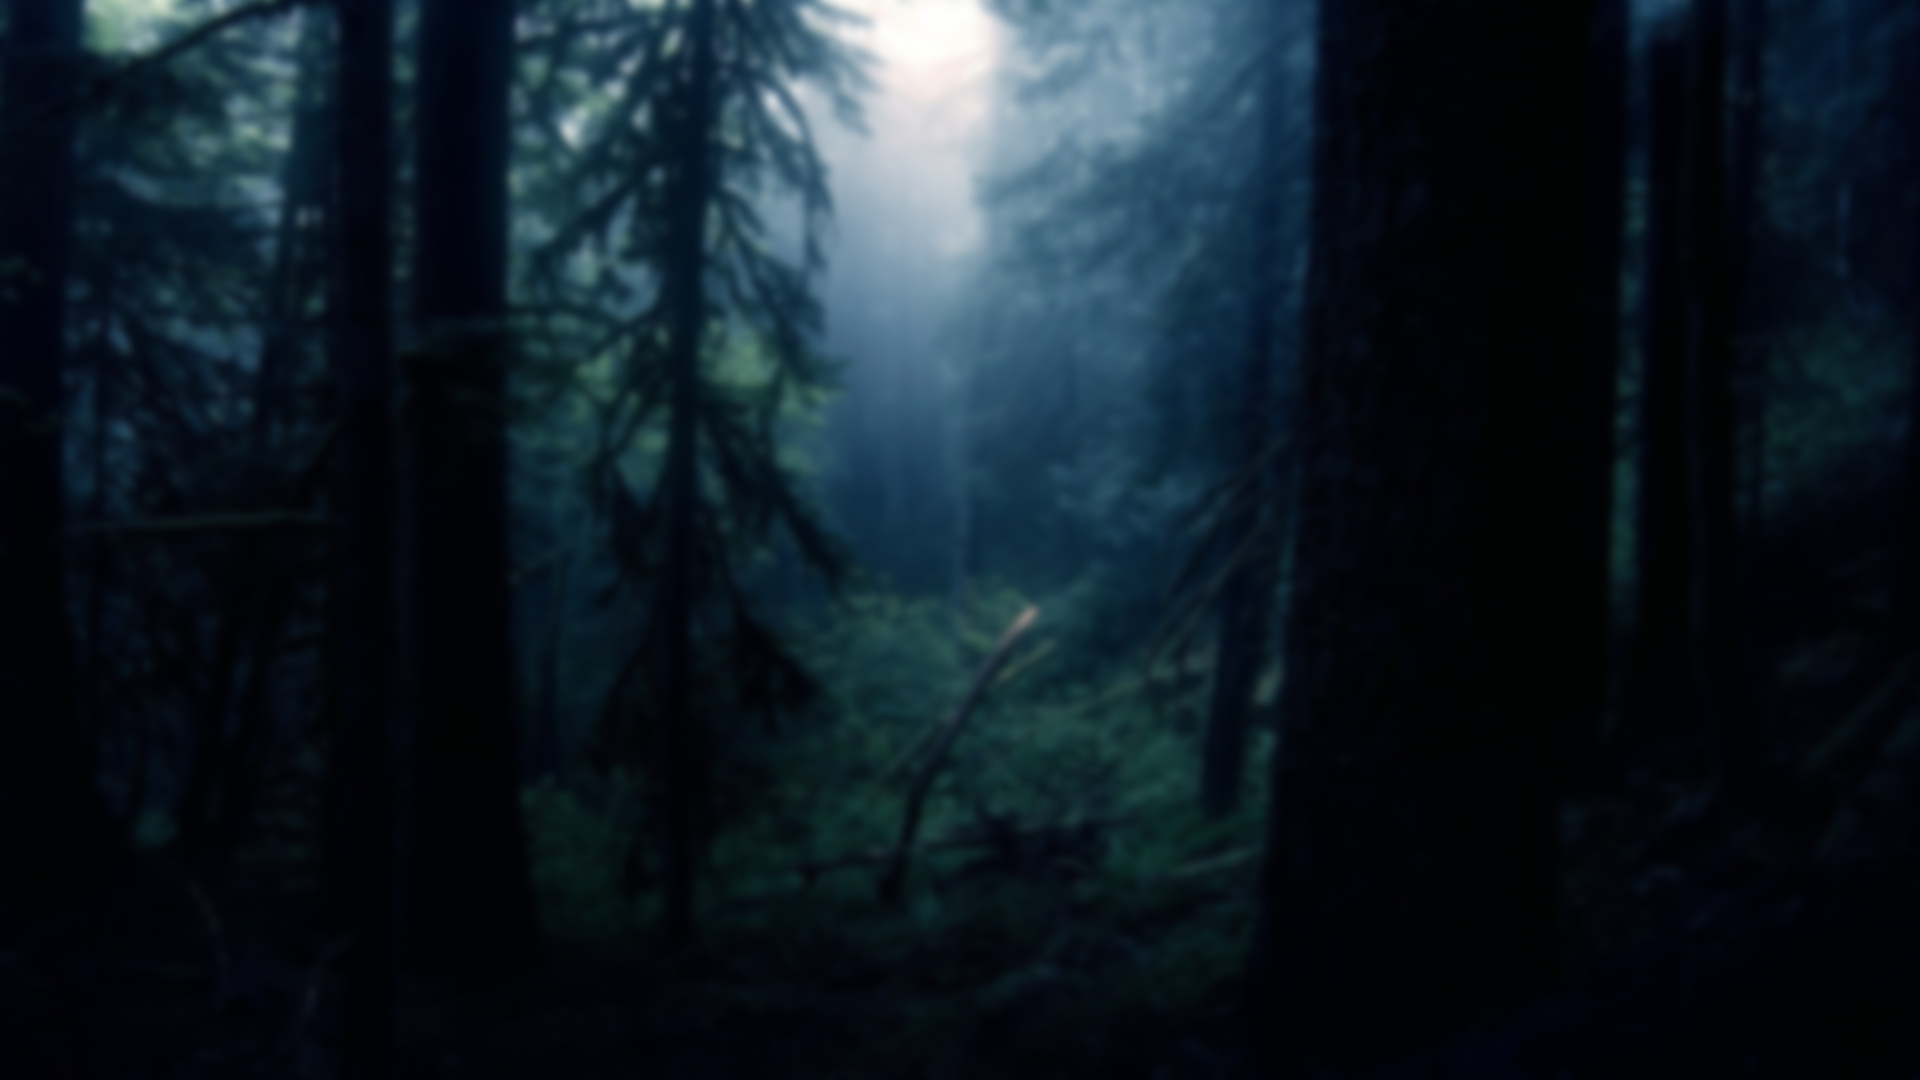
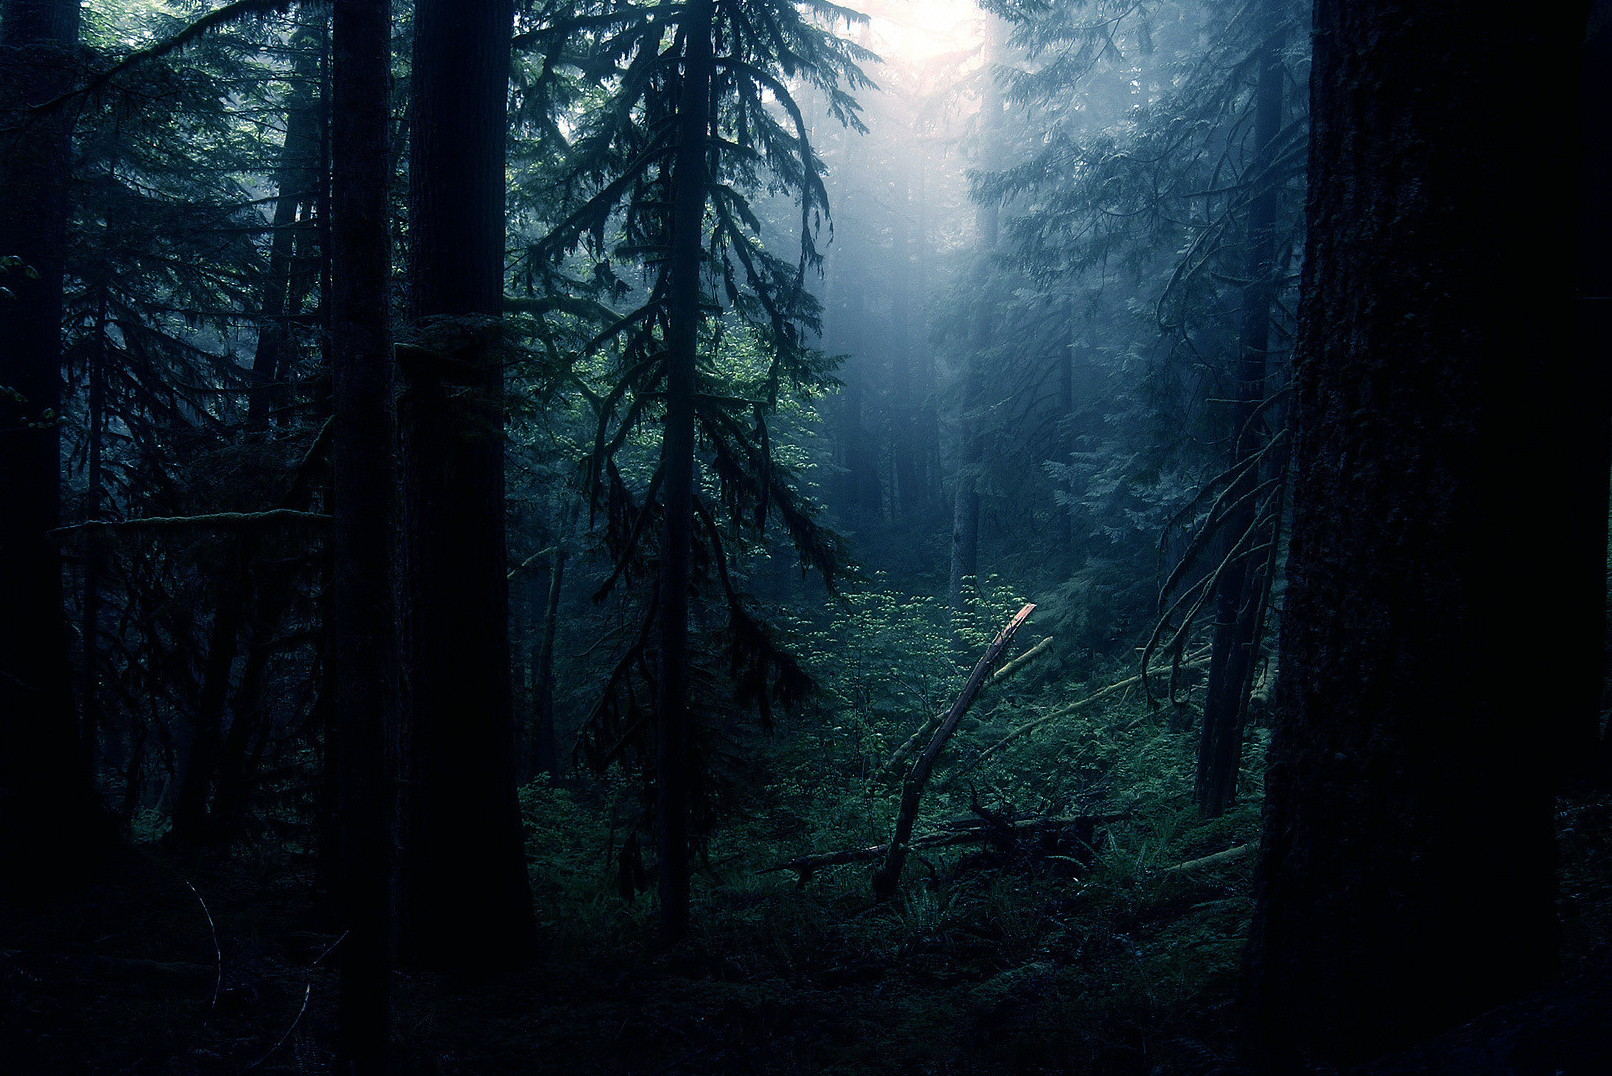
possible redesign

diff --git a/assets/themes/bootstrap/css/custom.css b/assets/themes/bootstrap/css/custom.css
@@ -9,7 +9,7 @@ body {
 	font-weight: 400;
 	font-size: 16px;
   background-color: #eee;
-	background: url('/assets/images/open-water.jpg') fixed;
+	background: url('/assets/images/landscapes-trees.jpg') fixed;
 	background-size: cover;
   color: #555;
 }
@@ -55,6 +55,8 @@ code {
 .lead {
 	font-weight: 400;
 	margin-bottom: 10px;
+	color: #eee;
+	text-shadow: -1px 1px 0 #333;
 }
 h1, h2, h3, h4 {
 	font-family: 'Source Code Pro', sans-serif;
@@ -71,22 +73,32 @@ p {
 .hello {
 	margin-top: 34px;
 	font-size: 400%;
-	color: #333;
+	color: #eee;
+	text-shadow: -3px 3px 0 #333;
 }
 
 .footer{
 	position: absolute;
 	bottom: 0px;
 	text-align: center;
-}
-/*
-#profile{
-	margin-top: 50px;
-	background-color: rgba(0,0,0, .7);
 	color: #eee;
-	border-radius: 4px;
+	text-shadow: -1px 1px 0 #333;
 }
-*/
+
+#profile{
+	color: #eee;
+	text-shadow: -1px 1px 0 #333;
+}
+
+#profile h1, h3{
+	text-align: center;
+}
+
+#profile p{
+	text-align: justify;
+}
+
+
 #profile .footer{
 	bottom: -40px;
 }
@@ -94,13 +106,14 @@ p {
 #portfolio{
 	margin-top: 100px;
 	margin-bottom: 25px;
-	background-image: url('/assets/images/squairy_light.png');
+	background-color: #eee;
 	padding: 0 15px 15px 15px;
 	border-radius: 4px;
+	box-shadow: -2px 2px 2px #333;
 }
 
 .footer a{
-	color: #999;
+	color: #eee;
 }
 
 .footer a:hover{
@@ -147,8 +160,8 @@ p {
 }
 
 #github-button{
-	border: 3px solid #666;
-	color: #666;
+	border: 3px solid #eee;
+	color: #eee;
 }
 
 #twitter-button{
@@ -227,13 +240,14 @@ p {
   font-family: 'Source Code Pro', sans-serif;
   font-size: 14px;
   font-weight: 400;
-  color: #333;
+  color: #eee;
+	text-shadow: -1px 1px 0 #333;
 }
 
 
 .nav li a:hover,
 .nav li a:focus {
-  color: #428bca;
+  color: #FFF;
   text-decoration: none;
   background-color: transparent;
 }
@@ -249,7 +263,7 @@ p {
 }
 
 .blog-main{
-	background: rgba(255, 255, 255, 0.5);
+	background: rgba(255, 255, 255, 0.7);
 	border-radius: 4px;
 }
 
@@ -262,6 +276,10 @@ p {
   	text-decoration: none;
 }
 
+.blog-sidebar{
+	color: #eee;
+	text-shadow: -1px 1px 0 #333;
+}
 .portrait-small {
 	height: 100px;
 	width: 100px;
@@ -295,22 +313,22 @@ p {
 }
 
 .btn-link{
-	border: 3px solid #666;
+	border: 3px solid #eee;
 	width: 150px;
 	border-radius: 4px;
-	color: #666;
+	color: #eee;
   font-family: 'Source Code Pro', sans-serif;
 }
 
 .btn-link:hover{
 	border: 3px solid #999;
-	color: #999;
+	color: #ccc;
 	text-decoration: none;
 }
 
 .btn-link:focus{
-	border: 3px solid #999;
-	color: #999;
+	border: 3px solid #ccc;
+	color: #ccc;
 	text-decoration: none;
 }
 

diff --git a/_includes/themes/bootstrap/blog_page.html b/_includes/themes/bootstrap/blog_page.html
@@ -3,6 +3,7 @@
     <li></li>
     <li><a href="/">MATT PETRIE</a></li>
     <li><a href="/blog/">blog</a></li>
+    <li><a href="mailto:matthew.petrie@gmail.com" target="_blank">contact</a></li>
   </ul>
 </div>
 
@@ -14,9 +15,9 @@
       <div class="col-sm-3 col-sm-offset-1 blog-sidebar">
         <div class="sidebar-module sidebar-module-inset">
           <h3>About</h3>
-          <img src="/assets/images/portrait.jpg" alt="Matt Petrie" class="img-circle img-responsive portrait-small">
+          <img src="/assets/images/portrait.jpg" alt="Matt Petrie" class="img-circle img-responsive portrait-small center-block">
           <p>My name is Matt Petrie. I am a web developer developer based in San Francisco. Find out what I'm up to here.</p>
-          <p><a href="matilto:{{ site.author.email}}"><img src="/assets/images/somicro_icons/email.png" alt="email" class="contact-icons"></a> | <a href="https://github.com/{{ site.author.github }}"><img src="/assets/images/somicro_icons/github.png" alt="GitHub" class="contact-icons"></a> | <a href="https://twitter.com/{{ site.author.twitter }}"><img src="/assets/images/somicro_icons/twitter.png" alt="Twitter" class="contact-icons"></a></p>
+          <p class="text-center"><a href="matilto:{{ site.author.email}}"><img src="/assets/images/somicro_icons/email.png" alt="email" class="contact-icons"></a> | <a href="https://github.com/{{ site.author.github }}"><img src="/assets/images/somicro_icons/github.png" alt="GitHub" class="contact-icons"></a> | <a href="https://twitter.com/{{ site.author.twitter }}"><img src="/assets/images/somicro_icons/twitter.png" alt="Twitter" class="contact-icons"></a></p>
         </div>
         <div class="sidebar-module">
           <h3>Recent Posts</h3>

diff --git a/_includes/themes/bootstrap/index.html b/_includes/themes/bootstrap/index.html
@@ -5,6 +5,7 @@
     <li><a href="#profile">about</a></li>
     <li><a href="#portfolio">portfolio</a></li>
     <li><a href="/blog/">blog</a></li>
+    <li><a href="mailto:matthew.petrie@gmail.com" target="_blank">contact</a></li>
   </ul>
 </div>
 
@@ -41,7 +42,7 @@
 
   <section id="profile">
     <div class="row">
-      <div class="col-md-8 col-md-offset-2">
+      <div class="col-md-6 col-md-offset-3">
         <h1 class="section-head">I can't imagine anything more awesome than making things for the internet.</h1>
         <p class="lead">Luckily, that's what I do. Front end, back end, I love the full stack from top to bottom. I like server-side code the same way I like my front end UI: clean, elegant and user friendly, and I'm ready to get my hands dirty working with both.</p>
         <p>Some of the languages and technologies I work with are: <strong>Ruby on Rails, JavaScript, SQL, HTML5, CSS3, CoffeeScript, Sass, RSpec, Capybara, Backbone.js, Node.js, jQuery, Bootstrap, and Git.</strong> And I'm always looking to add new things to my bag of tricks. Next up: <strong>Angular.js.</strong></p>
